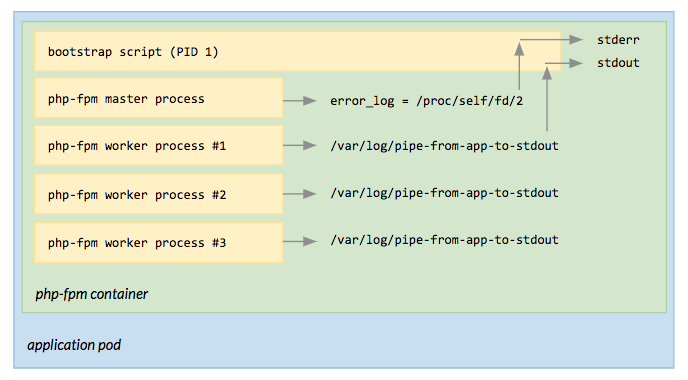
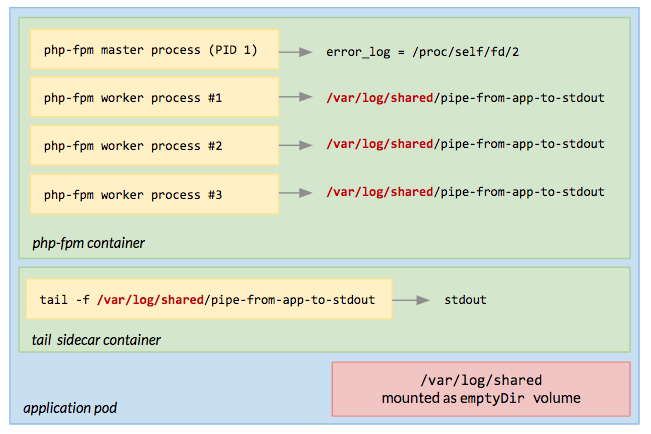
Updated PHP logging blog post

diff --git a/_posts/2019-01-24-php-on-kubernetes-application-logging-via-unix-pipe.md b/_posts/2019-01-24-php-on-kubernetes-application-logging-via-unix-pipe.md
@@ -58,35 +58,62 @@ static void fpm_stdio_child_said(struct fpm_event_s *ev, short which, void *arg)
 
 ## An alternative approach: log via unix pipe
 
-An alternative approach we found out working well is logging from each worker to a shared unix pipe and tail from that pipe and forward it to stdout in the PID 1. This means that `php-fpm` master process will **not** run as PID 1, but a custom "supervisor" will run as PID 1.
+An alternative approach we found out working well is logging from each worker to a shared unix pipe and tail it from a sidecar container. In this scenario:
+
+- `php-fpm` runs as PID 1 in its container configured with:
+  - `error_log = /proc/self/fd/2`
+  - `catch_workers_output = no`
+- `tail` runs as PID 1 in a sidecar container, reading from the unix pipe shared between containers using an `emptyDir` volume
 
 {% image 2019-01-24-php-on-kubernetes-unix-pipe.png %}
 
 You can find a full working [example here](https://github.com/pracucci/php-on-kubernetes/tree/master/app-log-php-fpm-via-unix-pipe) but in a nutshell it works as follows. The PHP application **writes logs to a unix pipe**:
 
 ```php
-// In production you will surely do something more optimized and structured
-// (ie. fopen() just once and then re-use the handle on each fwrite())
-// but here it was simplified for clarity
-file_put_contents("/var/log/pipe-from-app-to-stdout", "Log message\n");
+// Log in a quick and dirty way (NOT production-grade)
+file_put_contents("/var/log/shared/pipe-from-app-to-stdout", "Log message\n");
 ```
 
-A boostrapt script runs as PID 1 in the container and it takes care of starting `php-fpm` (daemonized) and a `tail` on `/var/log/pipe-from-app-to-stdout`.
+A **bootstrap script in the `php-fpm` container** creates the pipe before running `php-fpm`:
 
-The `php-fpm` process is configured to `error_log = /proc/self/fd/2` and the bootstrap script will redirect php-fpm stderr to the PID 1's stderr. A similar approach is taken with `tail`, where its stdout will be redirected to the PID 1's stdout.
+```
+#!/bin/sh
 
-The bootstrap script is something like this:
+# Create a pipe used by the PHP app to write logs
+if [ ! -p /var/log/shared/pipe-from-app-to-stdout ]; then
+    mkfifo      /var/log/shared/pipe-from-app-to-stdout
+    chmod 777   /var/log/shared/pipe-from-app-to-stdout
+fi
 
-<script src="https://gist-it.appspot.com/https://github.com/pracucci/php-on-kubernetes/blob/master/app-log-php-fpm-via-unix-pipe/bootstrap-php-fpm.sh"></script>
+exec php-fpm7 --fpm-config /etc/php7/php-fpm.conf --php-ini /etc/php7/php.ini
+```
 
-This approach also presents pros and cons:
+Another **bootstrap script in the `tail` container** waits until the shared pipe exists before tailing it:
 
-- **Pro**: application logs are not wrapped by `php-fpm`
-- **Pro**: application logs are not limited by length (no splitting / truncating)
-- **Pro**: application logs are forwarded to PID 1 stdout, while `php-fpm` error logs are forwarded to PID 1 stderr
+```
+#!/bin/sh
 
-- **Con**: the setup is more complicated
-- **Con**: writing to a unix pipe blocks indefinitely if there's no process that opened it for reading (that's why we continuously check if `tail` is running). The **good news** is that it's not required the reading process is actively reading from the pipe to unblock the writer, so the writer performances (PHP) are not affected by the reader performances (`tail`)
+# Wait until the pipe - created by the PHP app container
+# and shared via a tmp volume - is created
+while [ ! -e /var/log/shared/pipe-from-app-to-stdout ]; do
+    sleep 0.2
+done
+
+exec tail -f /var/log/shared/pipe-from-app-to-stdout
+```
+
+This approach has the following **benefits** over the previous solution:
+
+- Application logs are not wrapped by `php-fpm`
+- Application logs are not limited by length (no splitting / truncating)
+- Application logs and `php-fpm` error logs are not mixed together in the same stream
+
+
+### An unix pipe reader is required to avoid writes block indefinitely
+
+Writing to a unix pipe blocks indefinitely if there's no process that opened it for reading. This means that if - for any reason - `tail` is not running, writes from the PHP application will block until `tail` is running again.
+
+The good news is that it's not required the reading process completes the read operation from the pipe to unblock the writer, so the writer performances (PHP) are not affected by the reader performances (`tail`).
 
 
 ### Atomic writes to a unix pipe
@@ -96,3 +123,8 @@ Last but not the least, since we have multiple processes concurrently writing th
 Writing to a unix pipe without locking is safe (atomic) as far as each write is smaller than 4KB (see [this discussion](http://pubs.opengroup.org/onlinepubs/9699919799/functions/write.html) for more details). In case you support larger log messages at application level, you should use `flock($fd, LOCK_EX)` and `flock($fd, LOCK_UN)` to respectively lock and unlock a file descriptor.
 
 Popular logging frameworks like Monolog already support locking (ie. see `useLocking` option of [`StreamHandler`](https://github.com/Seldaek/monolog/blob/master/src/Monolog/Handler/StreamHandler.php)).
+
+
+### Credits
+
+The unix pipe strategy - with `tail` running in a sidecar container - has been improved thanks to the great feedback by [Michael Gasch](https://twitter.com/embano1).
